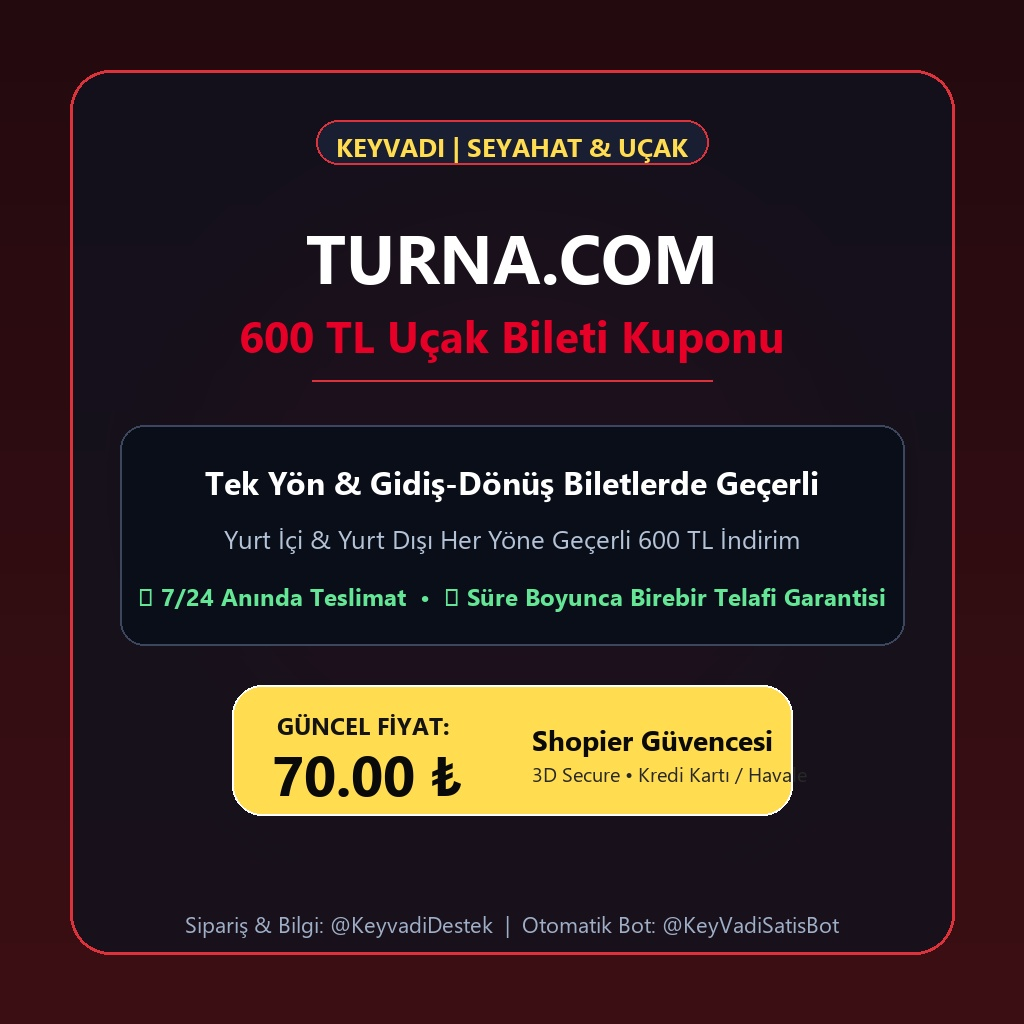
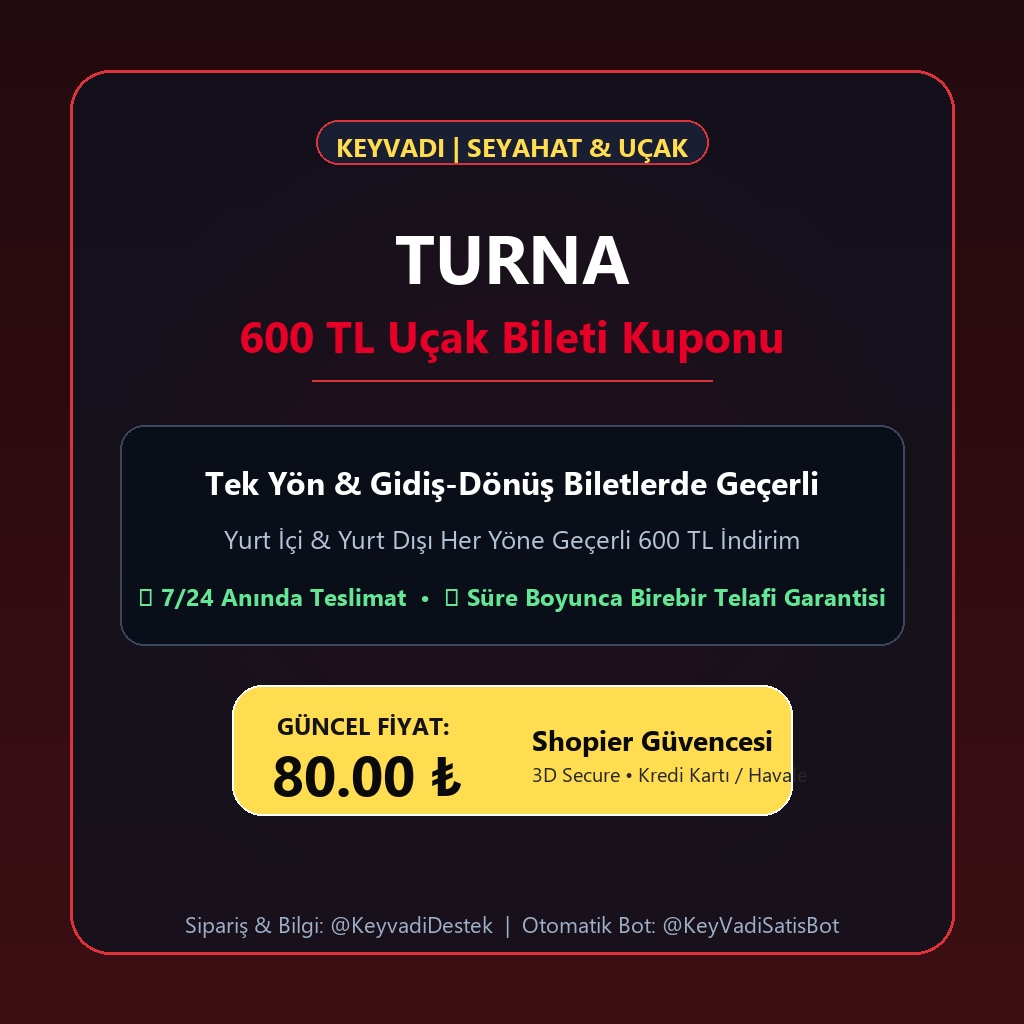
feat: add Turna 600 TL coupon (KeyVadi 80 TL, LisansArena 90 TL) across messages, bots, miniapps, and listing visuals

Changed region(s): [[0.2812, 0.2188, 0.7188, 0.2812], [0.25, 0.75, 0.3125, 0.7812]]

diff --git a/generate_new_product_cards.py b/generate_new_product_cards.py
@@ -45,7 +45,7 @@ PRODUCTS = [
         "subtitle": "600 TL Uçak Bileti Kuponu",
         "tagline": "Yurt İçi & Yurt Dışı Her Yöne Geçerli 600 TL İndirim",
         "highlight": "Tek Yön & Gidiş-Dönüş Biletlerde Geçerli",
-        "price": "70.00 ₺",
+        "price": "80.00 ₺",
         "colors": {
             "bg_top": (35, 10, 15),
             "bg_bottom": (60, 15, 20),
@@ -198,12 +198,12 @@ def draw_card(p):
     
     # 6. Bottom footer info
     f_bot = get_font(22, bold=False)
-    bot_info = "Sipariş & Bilgi: @KeyvadiDestek  |  Otomatik Bot: @KeyVadiSatisBot"
+    bot_info = p.get("bot_info") or "Sipariş & Bilgi: @KeyvadiDestek  |  Otomatik Bot: @KeyVadiSatisBot"
     bw = draw.textlength(bot_info, font=f_bot)
     draw.text(((W - bw) / 2, H - margin - 45), bot_info, font=f_bot, fill=(160, 175, 200))
     
     # Save image
-    out_paths = [
+    out_paths = p.get("out_paths") or [
         os.path.join("miniapp", "assets", "products", p["filename"]),
         os.path.join("static", p["filename"])
     ]
@@ -215,4 +215,15 @@ def draw_card(p):
 for prod in PRODUCTS:
     draw_card(prod)
 
-print("All 4 product cards generated successfully!")
+# Also generate LisansArena Turna Card (90 TL)
+turna_la = dict(PRODUCTS[2])
+turna_la["brand_badge"] = "LISANSARENA | SEYAHAT & UÇAK"
+turna_la["price"] = "90.00 ₺"
+turna_la["bot_info"] = "Sipariş & Bilgi: @LisansArenaDestek  |  Otomatik Bot: @LisansArenaBot"
+turna_la["out_paths"] = [
+    os.path.join("miniapp_lisansarena", "assets", "products", "card_clean_turna.jpg"),
+    os.path.join("static", "card_clean_turna_la.jpg")
+]
+draw_card(turna_la)
+
+print("All product cards (KeyVadi 80 TL, LisansArena 90 TL) generated successfully!")

diff --git a/tests/test_lisansarena_web.py b/tests/test_lisansarena_web.py
@@ -43,8 +43,8 @@ class LisansArenaWebTests(unittest.TestCase):
         response = self.client.get("/api/la/health")
         self.assertEqual(response.status_code, 200)
         self.assertTrue(response.get_json()["ok"])
-        self.assertEqual(response.get_json()["product_count"], 68)
-        self.assertEqual(response.get_json()["storefront_count"], 68)
+        self.assertEqual(response.get_json()["product_count"], 69)
+        self.assertEqual(response.get_json()["storefront_count"], 69)
         self.assertEqual(response.get_json()["duplicate_records_hidden"], 0)
 
     def test_shopier_refresh_failure_degrades_system_health(self):
@@ -153,7 +153,7 @@ class LisansArenaWebTests(unittest.TestCase):
         self.assertTrue(auth_data["user"]["referral_code"].startswith("LA-"))
         catalog = self.client.get("/api/la/catalog")
         self.assertEqual(catalog.status_code, 200)
-        self.assertEqual(len(catalog.get_json()["products"]), 68)
+        self.assertEqual(len(catalog.get_json()["products"]), 69)
 
     def test_brand_asset_is_served(self):
         response = self.client.get("/la/assets/brand")

diff --git a/yeni_ilanlari_shopiere_ekle.py b/yeni_ilanlari_shopiere_ekle.py
@@ -99,6 +99,13 @@ products = [
         "price_la": 30.00,
         "desc": "FLO mobil ve web alışverişlerinde 3.000 TL ve üzeri sepetlerde 800 TL indirim sağlayan kupon kodu. Anında teslimat.",
         "img": "card_clean_flo.jpg"
+    },
+    {
+        "name": "Turna 600 TL Uçak Bileti İndirim Kuponu",
+        "price_kv": 80.00,
+        "price_la": 90.00,
+        "desc": "Turna.com üzerinden yapılacak uçak bileti alımlarında geçerli 600 TL indirim sağlayan kupon kodu. Anında otomatik teslimat.",
+        "img": "card_clean_turna.jpg"
     }
 ]
 

diff --git a/tests/test_ad_account_dm.py b/tests/test_ad_account_dm.py
@@ -90,7 +90,7 @@ class AdAccountDmTests(unittest.IsolatedAsyncioTestCase):
 
     def test_every_lisansarena_product_has_price_and_product_specific_miniapp_link(self):
         products = load_sales_catalog("lisansarena")
-        self.assertEqual(len(products), 68)
+        self.assertEqual(len(products), 69)
         for product in products:
             reply = publisher.lisansarena_product_reply(product)
             self.assertIn(str(product["price"]), reply)

diff --git a/tests/test_full_catalog_ads.py b/tests/test_full_catalog_ads.py
@@ -23,7 +23,7 @@ class FullCatalogAdTests(unittest.TestCase):
 
     def test_keyvadi_turna_copy_has_requested_name_and_price(self):
         text = (ROOT / "messages" / "keyvadi_3.txt").read_text(encoding="utf-8")
-        self.assertIn("Turna 600 TL Uçak Kuponu: 100₺", text)
+        self.assertIn("Turna 600 TL Uçak Kuponu: 80₺", text)
         self.assertNotIn("Turna.com", text)
 
     def test_keyvadi_catalog_is_present_across_long_rotation(self):
